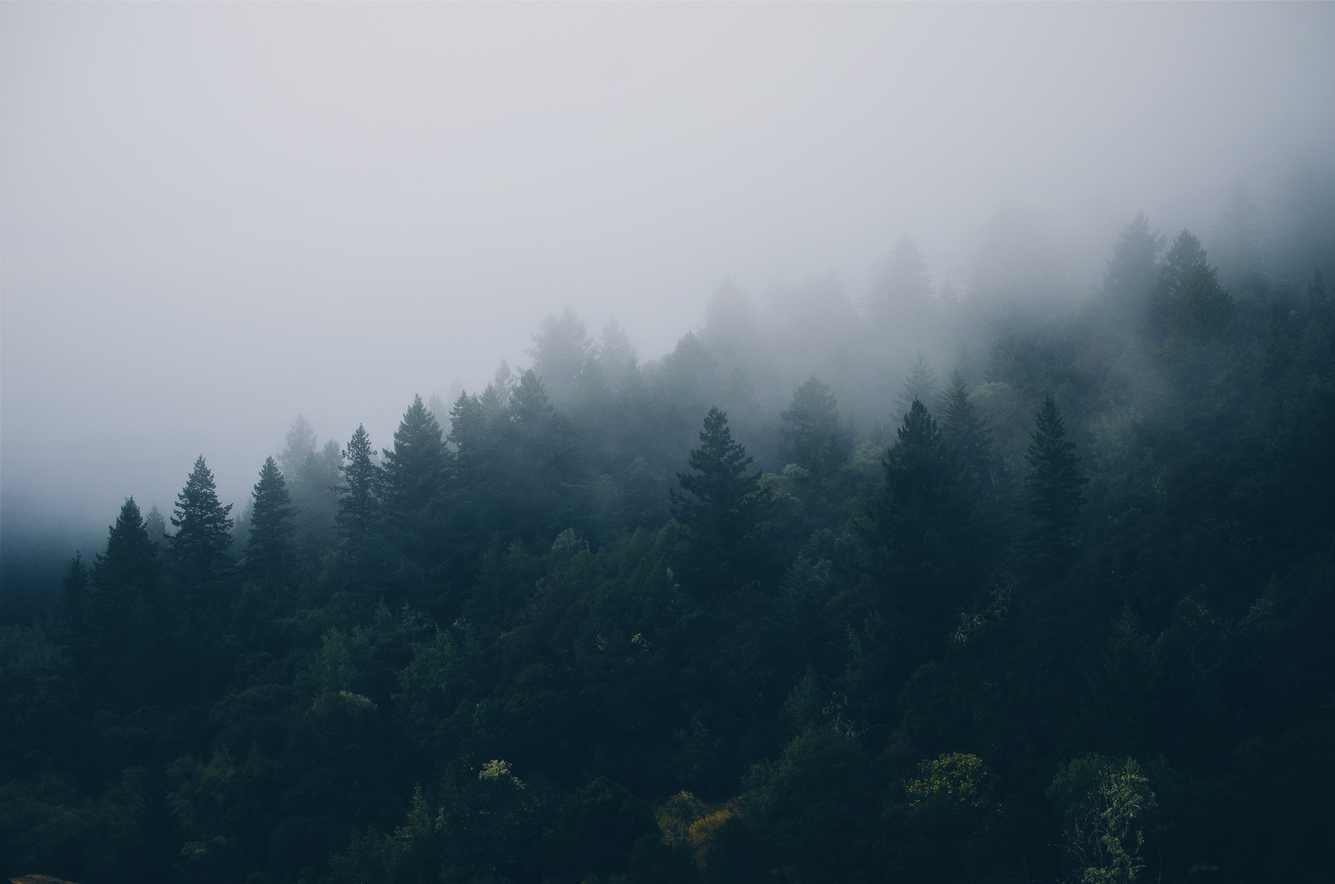
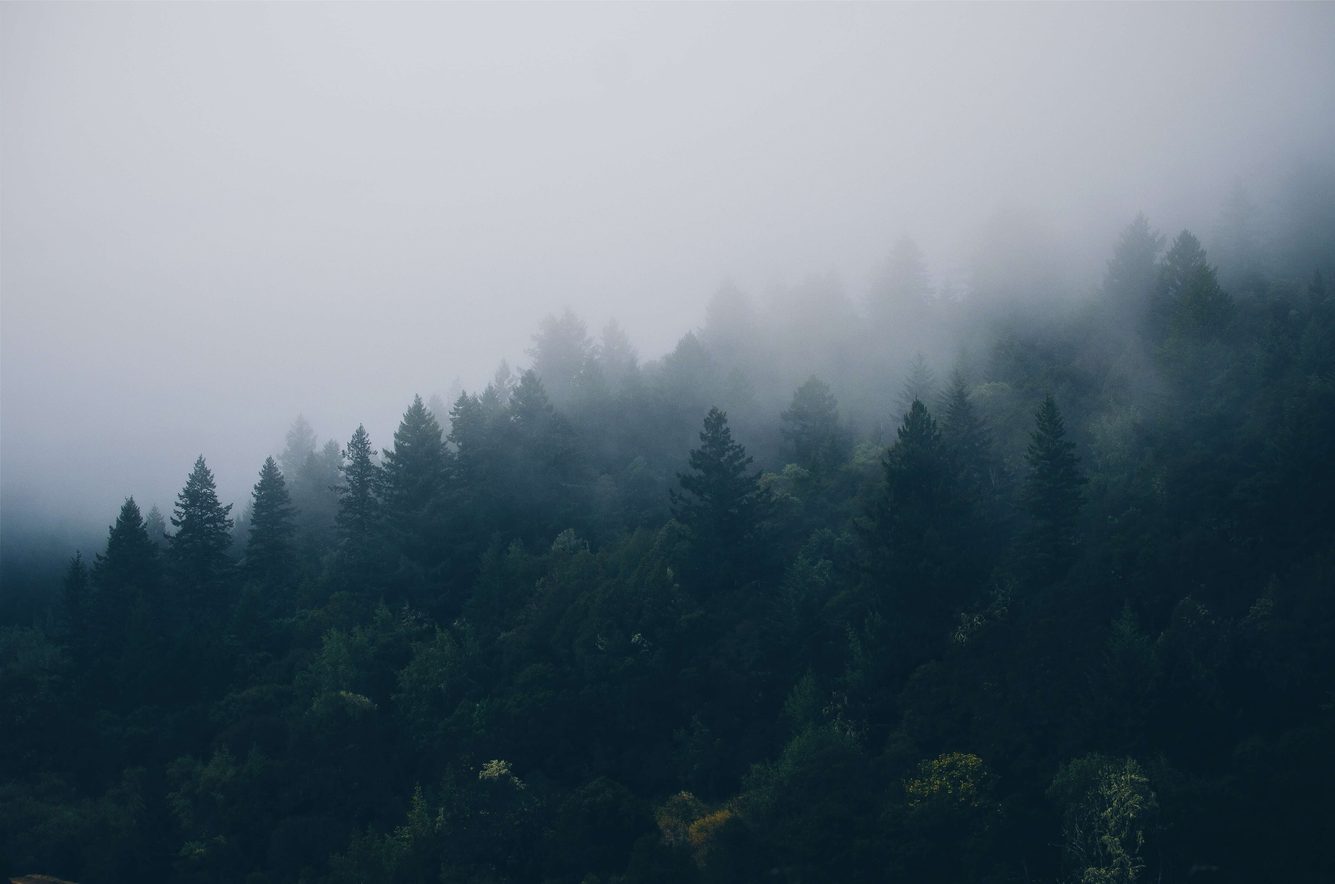
Fix blog buttons & Compress BG

diff --git a/src/App.css b/src/App.css
@@ -18,10 +18,10 @@ body::before {
   height: 100vh;
   z-index: -1;
   background: linear-gradient(
-      rgba(255, 255, 255, 0.1),
-      rgba(255, 255, 255, 0.1)
-    ),
-    url("./assets/bg.jpg") no-repeat center center fixed;
+  rgba(255, 255, 255, 0.1),
+  rgba(255, 255, 255, 0.1)
+  ),
+  url("./assets/bg.jpg") no-repeat center center fixed;
   background-size: cover;
   opacity: 1;
   pointer-events: none;
@@ -464,6 +464,7 @@ blockquote strong {
 @media (max-width: 900px) {
   .blog-button {
     flex: 1 1 100%;
+    min-width: calc(100% - 3rem);
   }
 }
 
